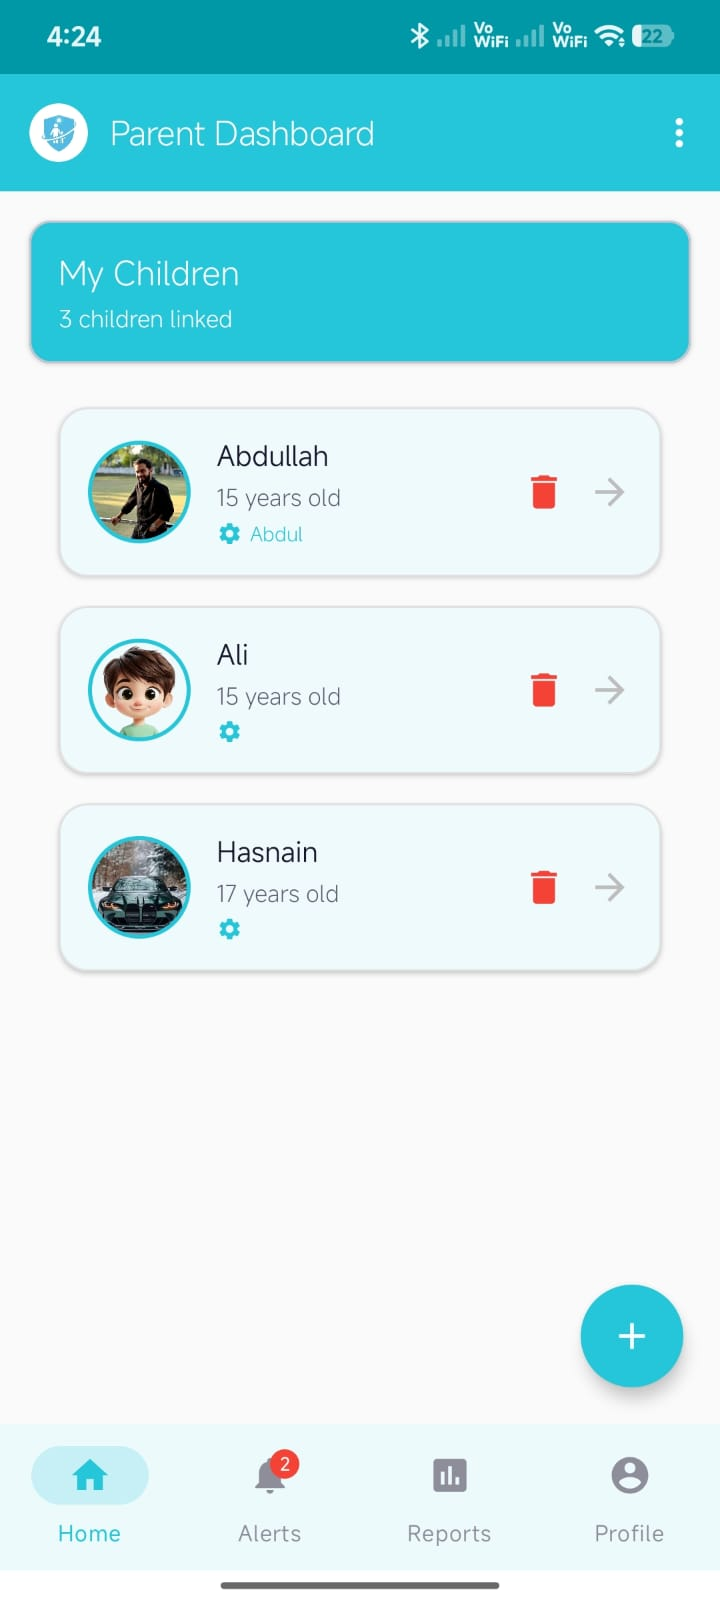
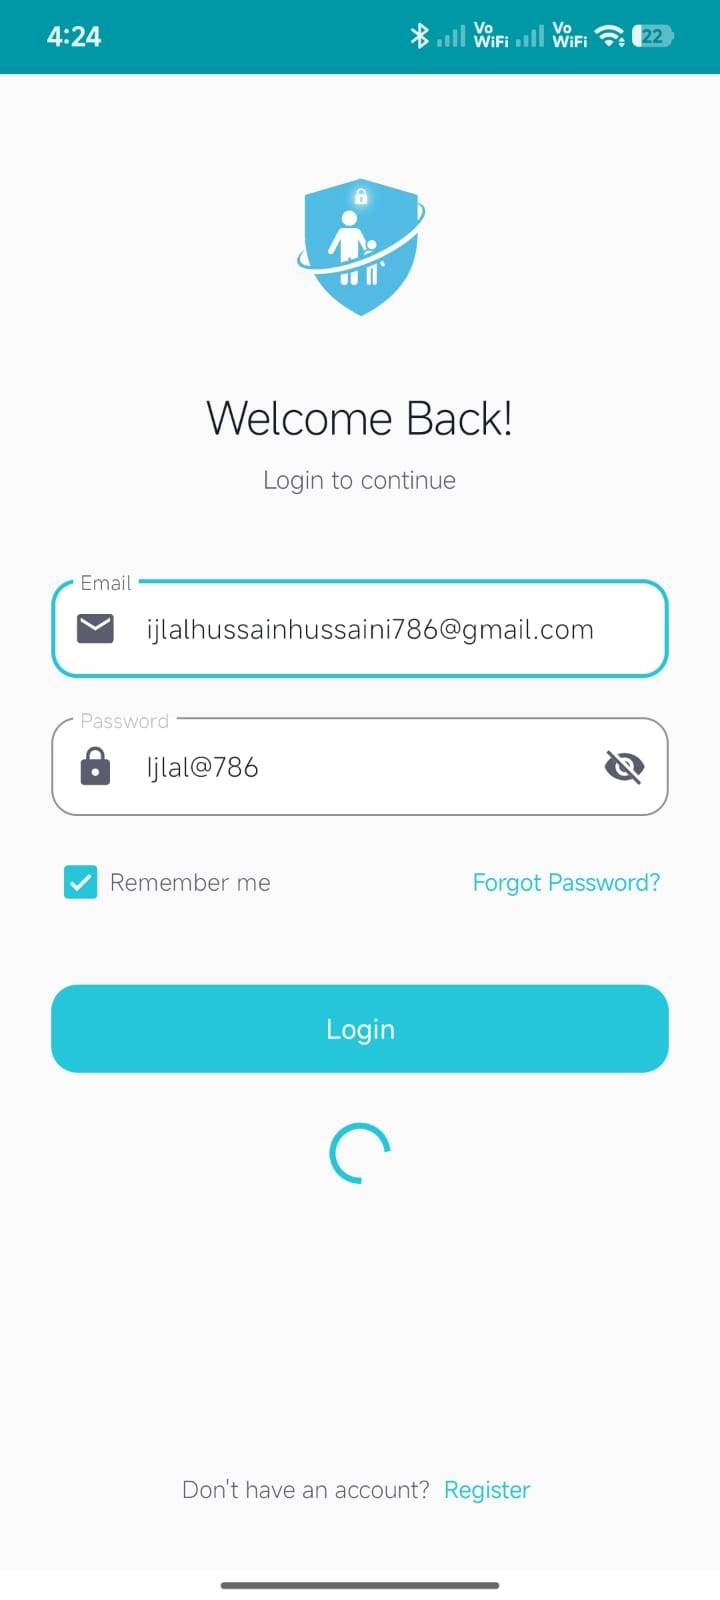
feat(projects): set SafeZone cover image to clean white login screen

diff --git a/src/data.ts b/src/data.ts
@@ -202,7 +202,7 @@ export const projectsData: Project[] = [
     demo: "/downloads/SafeZone.apk",
     description: "Safe Zone is a complete high-fidelity parental control Android system designed to curate a safer digital space for children. Developed as my Final Year Project (FYP) at NUML, the system splits into a parent dashboard and a child monitor, synchronizing instantly using Firebase cloud endpoints.",
     imageUrl: "SafeZone",
-    coverImage: "/assets/projects/SafeZone/02_Parent_Dashboard.jpeg",
+    coverImage: "/assets/projects/SafeZone/01_Login_Signup.jpeg",
     images: [
       {
         seq: 1,
